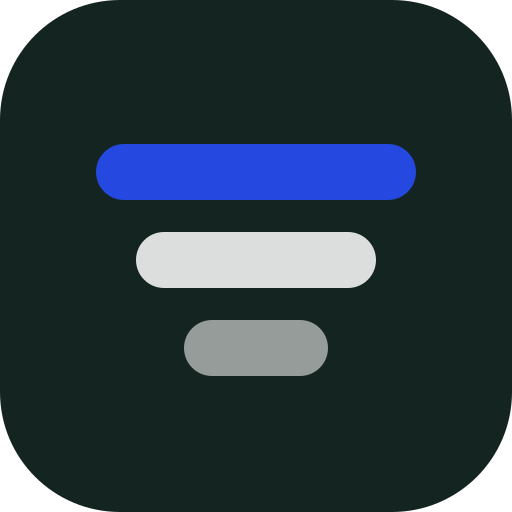
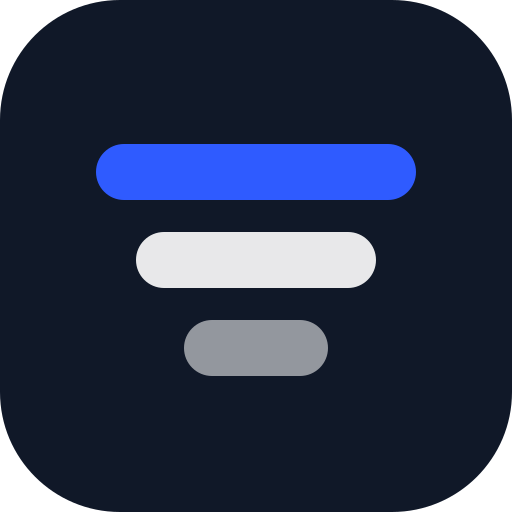
Новая палитра: холодные нейтральные цвета, графитовая тёмная тема, выбор акцента
- Светлая тема на чистых холодных нейтральных вместо серо-зелёных
- Тёмная тема графитовая
- Акцентный цвет на выбор: синий, фиолетовый, бирюзовый, розовый, оранжевый
- Тонкая полоса воронки с подписями этапов
- Белая боковая панель, активный раздел подсвечен акцентом

Changed region(s): [[0.1875, 0.2812, 0.8125, 0.4062]]

diff --git a/src/app/globals.css b/src/app/globals.css
@@ -2,65 +2,122 @@
 
 
 :root {
-  --c-bg: #edf0ec;
+  --c-bg: #f5f6f8;
   --c-panel: #ffffff;
-  --c-sunken: #f5f7f4;
-  --c-column: rgb(255 255 255 / 0.45);
-  --c-line: #d9e0db;
-  --c-ink: #142420;
-  --c-muted: #677670;
-  --c-accent: #2448e0;
-  --c-accent-soft: #e8edfd;
-  --c-money: #0e7a55;
-  --c-danger: #c2362b;
-  --c-danger-soft: #fdecea;
-  --c-warn: #a86a08;
-  --c-warn-soft: #fdf3dc;
-  --c-wa: #1a9e5c;
-  --c-wa-soft: #e7f6ee;
+  --c-sunken: #f8f9fb;
+  --c-column: rgb(16 24 40 / 0.035);
+  --c-line: #e4e7ec;
+  --c-ink: #101828;
+  --c-muted: #667085;
+  --c-money: #079455;
+  --c-danger: #d92d20;
+  --c-danger-soft: #fef3f2;
+  --c-warn: #b54708;
+  --c-warn-soft: #fffaeb;
+  --c-wa: #16a34a;
+  --c-wa-soft: #ecfdf3;
+  --c-accent: #2f5bff;
+  --c-accent-soft: #ebf0ff;
   color-scheme: light;
 }
 
-
 :root[data-theme="dark"] {
-  --c-bg: #0e1513;
-  --c-panel: #161f1c;
-  --c-sunken: #121a17;
-  --c-column: rgb(255 255 255 / 0.025);
-  --c-line: #26332e;
-  --c-ink: #e3ebe6;
-  --c-muted: #8b9b94;
-  --c-accent: #7190ff;
-  --c-accent-soft: #1b2546;
-  --c-money: #3fcf92;
-  --c-danger: #ff7a6e;
-  --c-danger-soft: #3a1d1b;
-  --c-warn: #f2b84b;
-  --c-warn-soft: #362a12;
-  --c-wa: #3fcf85;
-  --c-wa-soft: #163126;
+  --c-bg: #0c0e12;
+  --c-panel: #16191f;
+  --c-sunken: #121419;
+  --c-column: rgb(255 255 255 / 0.03);
+  --c-line: #262a33;
+  --c-ink: #eceef2;
+  --c-muted: #8b92a1;
+  --c-money: #47cd89;
+  --c-danger: #f97066;
+  --c-danger-soft: #3a1714;
+  --c-warn: #fdb022;
+  --c-warn-soft: #33250a;
+  --c-wa: #4ade80;
+  --c-wa-soft: #0f2a1b;
+  --c-accent: #7b96ff;
+  --c-accent-soft: #1b2550;
   color-scheme: dark;
 }
 
 @media (prefers-color-scheme: dark) {
   :root:not([data-theme="light"]):not([data-theme="dark"]) {
-    --c-bg: #0e1513;
-    --c-panel: #161f1c;
-    --c-sunken: #121a17;
-    --c-column: rgb(255 255 255 / 0.025);
-    --c-line: #26332e;
-    --c-ink: #e3ebe6;
-    --c-muted: #8b9b94;
-    --c-accent: #7190ff;
-    --c-accent-soft: #1b2546;
-    --c-money: #3fcf92;
-    --c-danger: #ff7a6e;
-    --c-danger-soft: #3a1d1b;
-    --c-warn: #f2b84b;
-    --c-warn-soft: #362a12;
-    --c-wa: #3fcf85;
-    --c-wa-soft: #163126;
+    --c-bg: #0c0e12;
+    --c-panel: #16191f;
+    --c-sunken: #121419;
+    --c-column: rgb(255 255 255 / 0.03);
+    --c-line: #262a33;
+    --c-ink: #eceef2;
+    --c-muted: #8b92a1;
+    --c-money: #47cd89;
+    --c-danger: #f97066;
+    --c-danger-soft: #3a1714;
+    --c-warn: #fdb022;
+    --c-warn-soft: #33250a;
+    --c-wa: #4ade80;
+    --c-wa-soft: #0f2a1b;
+    --c-accent: #7b96ff;
+    --c-accent-soft: #1b2550;
     color-scheme: dark;
+  }
+}
+
+/* Акцентный цвет — выбирается в настройках */
+:root[data-accent="violet"] {
+  --c-accent: #7a3cf0;
+  --c-accent-soft: #f2ecfe;
+}
+:root[data-accent="violet"][data-theme="dark"] {
+  --c-accent: #a98bfa;
+  --c-accent-soft: #2a1f48;
+}
+@media (prefers-color-scheme: dark) {
+  :root[data-accent="violet"]:not([data-theme="light"]):not([data-theme="dark"]) {
+    --c-accent: #a98bfa;
+    --c-accent-soft: #2a1f48;
+  }
+}
+:root[data-accent="teal"] {
+  --c-accent: #0e9384;
+  --c-accent-soft: #e6f6f4;
+}
+:root[data-accent="teal"][data-theme="dark"] {
+  --c-accent: #2ed3b7;
+  --c-accent-soft: #0f2f2b;
+}
+@media (prefers-color-scheme: dark) {
+  :root[data-accent="teal"]:not([data-theme="light"]):not([data-theme="dark"]) {
+    --c-accent: #2ed3b7;
+    --c-accent-soft: #0f2f2b;
+  }
+}
+:root[data-accent="pink"] {
+  --c-accent: #dd2590;
+  --c-accent-soft: #fdeaf4;
+}
+:root[data-accent="pink"][data-theme="dark"] {
+  --c-accent: #f670c7;
+  --c-accent-soft: #3b1530;
+}
+@media (prefers-color-scheme: dark) {
+  :root[data-accent="pink"]:not([data-theme="light"]):not([data-theme="dark"]) {
+    --c-accent: #f670c7;
+    --c-accent-soft: #3b1530;
+  }
+}
+:root[data-accent="orange"] {
+  --c-accent: #e8590c;
+  --c-accent-soft: #fff0e6;
+}
+:root[data-accent="orange"][data-theme="dark"] {
+  --c-accent: #fd9152;
+  --c-accent-soft: #3a2112;
+}
+@media (prefers-color-scheme: dark) {
+  :root[data-accent="orange"]:not([data-theme="light"]):not([data-theme="dark"]) {
+    --c-accent: #fd9152;
+    --c-accent-soft: #3a2112;
   }
 }
 

diff --git a/src/components/FunnelStrip.tsx b/src/components/FunnelStrip.tsx
@@ -9,7 +9,7 @@ export function FunnelStrip({ stages, leads, onPick }: { stages: Stage[]; leads:
   const total = leads.length;
 
   return (
-    <div className="flex h-9 w-full gap-[3px]" role="list" aria-label="Распределение заявок по этапам">
+    <div className="flex w-full gap-1" role="list" aria-label="Распределение заявок по этапам">
       {stages.map((s) => {
         const n = counts.get(s.id) ?? 0;
         return (
@@ -18,13 +18,17 @@ export function FunnelStrip({ stages, leads, onPick }: { stages: Stage[]; leads:
             role="listitem"
             onClick={() => onPick(s.id)}
             title={`${s.name}: ${n}`}
-            className="group relative flex min-w-9 items-center overflow-hidden rounded-md px-2 text-left transition-[flex-grow] duration-500 first:rounded-l-lg last:rounded-r-lg"
-            style={{ flexGrow: total ? Math.max(n, total * 0.04) : 1, flexBasis: 0, background: s.color + (n ? "" : "33") }}
+            className="group min-w-12 text-left transition-[flex-grow] duration-500"
+            style={{ flexGrow: total ? Math.max(n, total * 0.06) : 1, flexBasis: 0 }}
           >
-            <span className={`truncate text-xs font-semibold tabular-nums ${n ? "text-white" : "text-ink/50"}`}>
-              {n}
-              <span className="ml-1.5 font-medium opacity-80 max-md:hidden">{s.name}</span>
+            <span className="flex items-baseline gap-1.5 truncate pb-1.5 text-xs">
+              <span className="font-semibold tabular-nums">{n}</span>
+              <span className="truncate text-muted group-hover:text-ink max-sm:hidden">{s.name}</span>
             </span>
+            <span
+              className="block h-1.5 rounded-full transition-[height] group-hover:h-2"
+              style={{ background: n ? s.color : `color-mix(in srgb, ${s.color} 25%, transparent)` }}
+            />
           </button>
         );
       })}

diff --git a/src/components/SettingsView.tsx b/src/components/SettingsView.tsx
@@ -5,7 +5,7 @@ import { Bell, Columns3, FileSpreadsheet, LogOut, MessageSquareText, Monitor, Mo
 import { useCrm } from "@/lib/crm";
 import { supabase } from "@/lib/supabase/client";
 import { fillTemplate } from "@/lib/format";
-import { setTheme, useTheme, type Theme } from "@/lib/theme";
+import { ACCENTS, setAccent, setTheme, useAccent, useTheme, type Theme } from "@/lib/theme";
 import { toast } from "@/lib/toast";
 import { notificationsSupported } from "@/lib/reminders";
 import { useSession } from "@/components/AuthGate";
@@ -158,6 +158,8 @@ function LookPanel() {
           </button>
         ))}
       </div>
+      <AccentPicker />
+
       <NotificationsToggle />
 
       <p className="mt-6 mb-2 text-sm text-muted">Горячие клавиши</p>
@@ -167,6 +169,30 @@ function LookPanel() {
         <li><Kbd>/</Kbd> поиск по заявкам</li>
         <li><Kbd>Esc</Kbd> закрыть карточку или окно</li>
       </ul>
+    </div>
+  );
+}
+
+function AccentPicker() {
+  const accent = useAccent();
+  return (
+    <div className="mt-6">
+      <p className="mb-2 text-sm text-muted">Акцентный цвет</p>
+      <div className="flex flex-wrap gap-2">
+        {ACCENTS.map((a) => (
+          <button
+            key={a.id}
+            onClick={() => setAccent(a.id)}
+            aria-pressed={accent === a.id}
+            className={`flex items-center gap-2 rounded-full border py-1.5 pr-3 pl-1.5 text-sm transition ${
+              accent === a.id ? "border-ink font-medium" : "border-line hover:border-ink/30"
+            }`}
+          >
+            <span className="h-5 w-5 rounded-full" style={{ background: a.color }} />
+            {a.label}
+          </button>
+        ))}
+      </div>
     </div>
   );
 }

diff --git a/src/lib/theme.ts b/src/lib/theme.ts
@@ -35,5 +35,42 @@ export function useTheme() {
   );
 }
 
+export const ACCENTS = [
+  { id: "blue", label: "Синий", color: "#2f5bff" },
+  { id: "violet", label: "Фиолетовый", color: "#7a3cf0" },
+  { id: "teal", label: "Бирюзовый", color: "#0e9384" },
+  { id: "pink", label: "Розовый", color: "#dd2590" },
+  { id: "orange", label: "Оранжевый", color: "#e8590c" },
+] as const;
+export type Accent = (typeof ACCENTS)[number]["id"];
+const ACCENT_KEY = "crm.accent";
+
+function readAccent(): Accent {
+  try {
+    const v = localStorage.getItem(ACCENT_KEY);
+    return ACCENTS.some((a) => a.id === v) ? (v as Accent) : "blue";
+  } catch {
+    return "blue";
+  }
+}
+
+export function setAccent(a: Accent) {
+  try {
+    if (a === "blue") localStorage.removeItem(ACCENT_KEY);
+    else localStorage.setItem(ACCENT_KEY, a);
+  } catch {}
+  if (a === "blue") document.documentElement.removeAttribute("data-accent");
+  else document.documentElement.setAttribute("data-accent", a);
+  subs.forEach((f) => f());
+}
+
+export function useAccent() {
+  return useSyncExternalStore(
+    (f) => { subs.add(f); return () => subs.delete(f); },
+    readAccent,
+    () => "blue" as Accent,
+  );
+}
+
 /** Ставится в <head> до гидрации, чтобы не мигало. */
-export const themeScript = `try{var t=localStorage.getItem("${KEY}");if(t==="light"||t==="dark")document.documentElement.setAttribute("data-theme",t)}catch(e){}`;
+export const themeScript = `try{var d=document.documentElement,t=localStorage.getItem("${KEY}"),a=localStorage.getItem("${ACCENT_KEY}");if(t==="light"||t==="dark")d.setAttribute("data-theme",t);if(a)d.setAttribute("data-accent",a)}catch(e){}`;

diff --git a/src/components/Shell.tsx b/src/components/Shell.tsx
@@ -74,7 +74,7 @@ export function Shell({ children }: { children: React.ReactNode }) {
   return (
     <div className="flex h-full flex-col md:flex-row">
       {/* Боковая панель — компьютер */}
-      <nav className="hidden w-[4.75rem] shrink-0 flex-col items-center gap-1 border-r border-line py-4 md:flex" aria-label="Разделы">
+      <nav className="hidden w-[4.75rem] shrink-0 flex-col items-center gap-1 border-r border-line bg-panel py-4 md:flex" aria-label="Разделы">
         <Link href="/" className="mb-4" aria-label="На главную">
           {/* eslint-disable-next-line @next/next/no-img-element */}
           <img src="/icon.svg" alt="" className="h-9 w-9" />
@@ -146,7 +146,7 @@ function NavItem({ href, label, icon: Icon, active, badge }: NavProps) {
       href={href}
       aria-current={active ? "page" : undefined}
       className={`relative flex w-16 flex-col items-center gap-1 rounded-xl py-2 text-[0.6875rem] font-medium transition ${
-        active ? "bg-panel text-ink shadow-sm" : "text-muted hover:bg-ink/[0.04] hover:text-ink"
+        active ? "bg-accent-soft text-accent" : "text-muted hover:bg-ink/[0.04] hover:text-ink"
       }`}
     >
       <Icon size={20} strokeWidth={active ? 2.2 : 1.8} />

diff --git a/src/app/manifest.ts b/src/app/manifest.ts
@@ -6,8 +6,8 @@ export default function manifest(): MetadataRoute.Manifest {
     short_name: "CRM",
     start_url: "/",
     display: "standalone",
-    background_color: "#edf0ec",
-    theme_color: "#edf0ec",
+    background_color: "#f5f6f8",
+    theme_color: "#f5f6f8",
     icons: [
       { src: "/icon-192.png", sizes: "192x192", type: "image/png" },
       { src: "/icon-512.png", sizes: "512x512", type: "image/png" },

diff --git a/src/app/layout.tsx b/src/app/layout.tsx
@@ -18,8 +18,8 @@ export const viewport: Viewport = {
   maximumScale: 1,
   viewportFit: "cover",
   themeColor: [
-    { media: "(prefers-color-scheme: light)", color: "#edf0ec" },
-    { media: "(prefers-color-scheme: dark)", color: "#0e1513" },
+    { media: "(prefers-color-scheme: light)", color: "#f5f6f8" },
+    { media: "(prefers-color-scheme: dark)", color: "#0c0e12" },
   ],
 };
 
